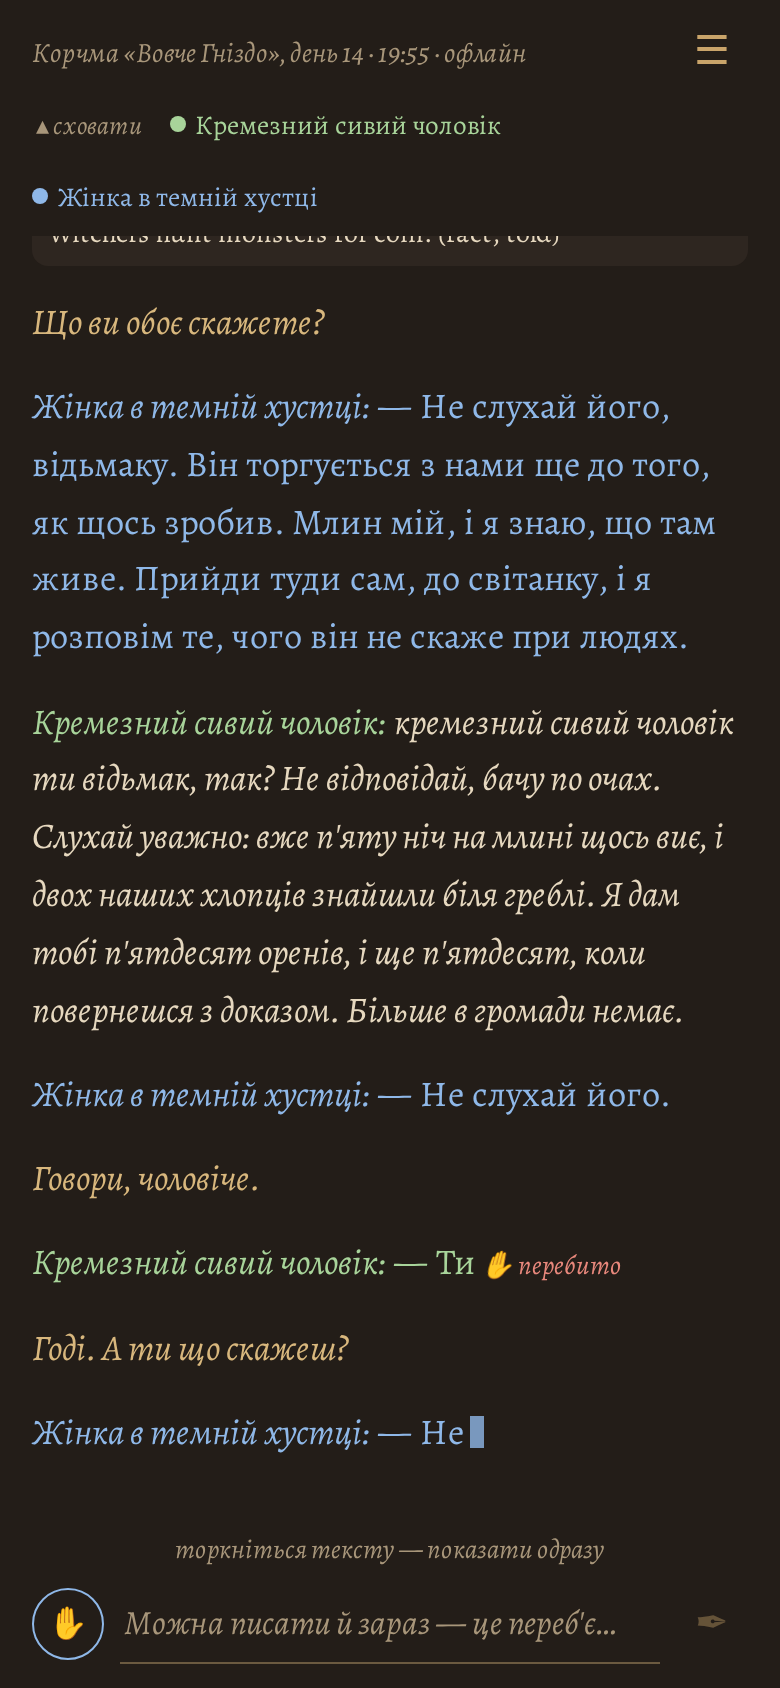
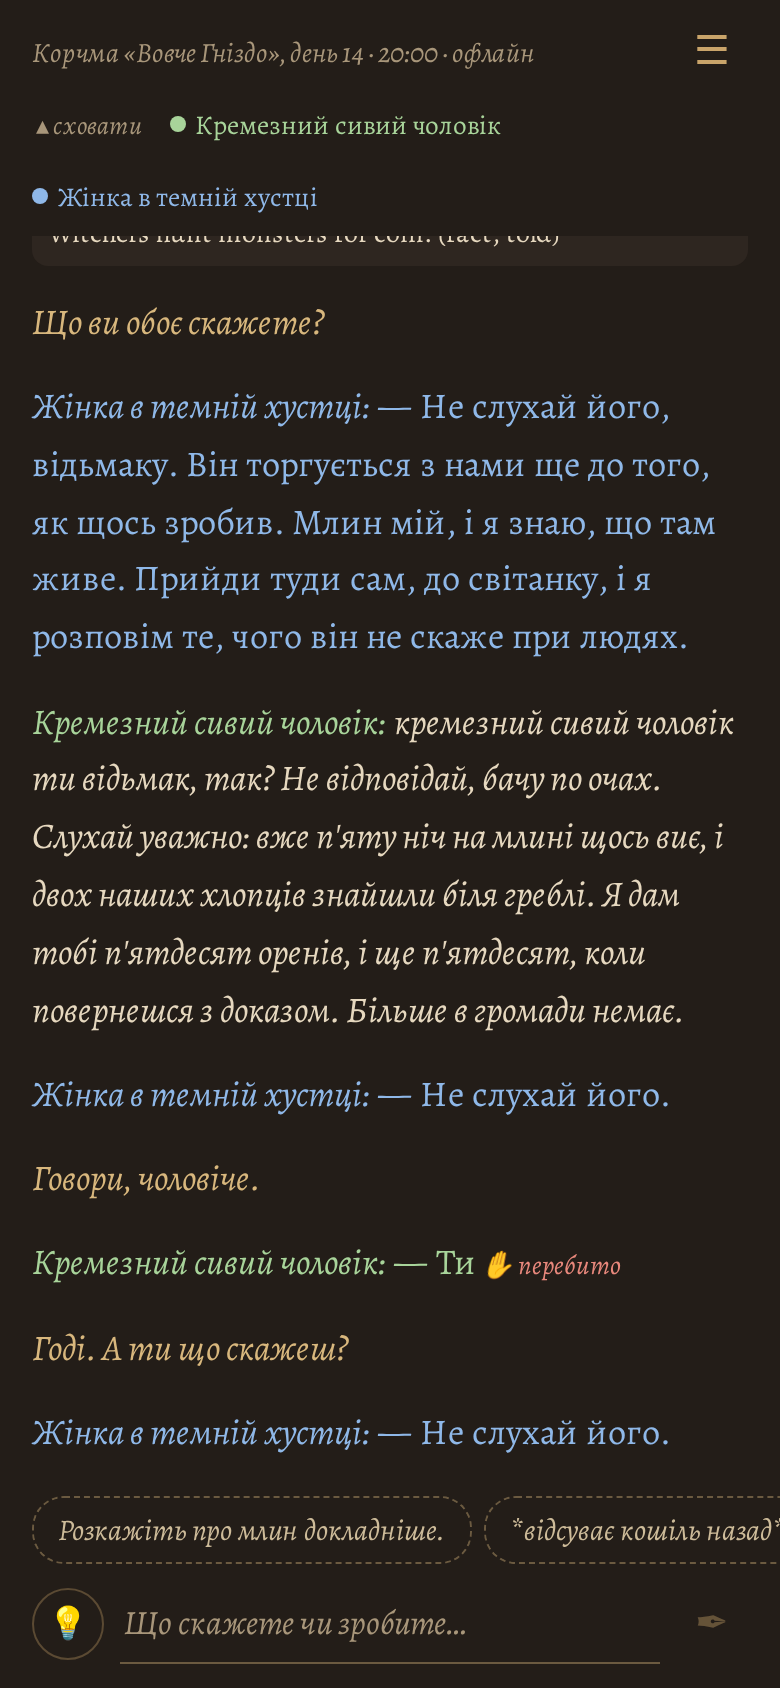
Model error on the last NPC gesture: regenerate it through the gesture step, retract the old event
Claude-Session: https://claude.ai/code/session_01CWLHKUxozeDSLq8FyEpMnW

diff --git a/app/static/app.js b/app/static/app.js
@@ -118,9 +118,10 @@ function sayBlock(tok, label, text, cut, event) {
   if (event != null) p.dataset.event = event;
   return p;
 }
-function actBlock(tok, label, text) {
+function actBlock(tok, label, text, event) {
   const p = el("p", "npc act"); p.dataset.line = "act"; p.tabIndex = 0;
   who(p, tok, label);
+  if (event != null) p.dataset.event = event;
   p.append(whoTag(p), document.createTextNode(" "), el("span", "act-text", text));
   return p;
 }
@@ -154,7 +155,7 @@ function lineInfo(p) {
 function sheetItems(x, offered) {
   const out = [];
   if (x.kind === "say" && x.event) out.push("challenge");
-  if (offered.includes("model_error") && x.lastWorld && x.kind !== "act" && !x.busy) out.push("model_error");
+  if (offered.includes("model_error") && x.lastWorld && (x.kind !== "act" || x.event) && !x.busy) out.push("model_error");
   if (offered.includes("cut") && x.kind === "say" && x.lastWorld && x.lastLine && !x.busy && !x.cut)
     out.push("cut");
   if (x.tok && (x.kind === "say" || x.kind === "act")) out.push("ink");
@@ -506,7 +507,7 @@ function render(state) {
     if (t.kind === "intro") n = narrBlock(t.text, "intro");
     else if (t.kind === "player") { n = meBlock(t.text); lastTurnNodes = []; }
     else if (t.kind === "narr") { if (t.text && t.text.trim()) n = narrBlock(t.text); }
-    else if (t.kind === "npc_act") n = actBlock(t.tok, t.label, t.text);
+    else if (t.kind === "npc_act") n = actBlock(t.tok, t.label, t.text, t.event);
     else n = sayBlock(t.tok, t.label, t.text, t.cut, t.event);
     if (!n) continue;
     add(n, false);
@@ -551,7 +552,7 @@ const handlers = {
     cur = add(sayBlock(e.tok, e.label, "")); turnNpc.push(cur); streaming(cur);
     setBusy(true, "speaking");
   },
-  npc_act(e) { newSpeaker(e.tok); cur = add(actBlock(e.tok, e.label, e.text)); streaming(null); },
+  npc_act(e) { newSpeaker(e.tok); cur = add(actBlock(e.tok, e.label, e.text, e.event)); streaming(null); },
   word(e) {
     if (!cur || cur.dataset.line !== "say") return;
     const p = cur;

diff --git a/app/tests/test_app_corrections.py b/app/tests/test_app_corrections.py
@@ -11,7 +11,7 @@ from app.campaigns import open_campaign
 from app.game import Game
 from app.server import create_app
 from app.stacks import fake_stack
-from harness.director import NEXT_TAG
+from harness.director import NEXT_TAG, SHAPE_TAG
 from harness.models import CORRECTION, NARRATION, UTTERANCE
 
 
@@ -20,12 +20,15 @@ def _no_local_character_file(monkeypatch, tmp_path):
     monkeypatch.setattr(campaigns, "DATA_FILE", tmp_path / "missing.md")
 
 
-def make(floors=("horst", "player"), narration=False):
+def make(floors=("horst", "player"), narration=False, shapes=None):
     stack = fake_stack()
     stack.judge.rules["director_narration"] = narration
+    if shapes:
+        stack.judge.rules[SHAPE_TAG] = list(shapes)
     stack.judge.rules[NEXT_TAG] = list(floors)
     root = tempfile.mkdtemp(prefix="harness-app-corr-")
     g = Game(lambda new: open_campaign(stack, root=root, new=new), pace=0.0, suggestions=False)
+    g.root = root
     g.start_turn("Що кажете?")
     g.wait_idle(20)
     return g, TestClient(create_app(g)), stack
@@ -48,6 +51,36 @@ def test_model_error_on_the_last_npc_line_rewrites_it_and_stores_the_note():
     assert notes and notes[-1].payload["explanation"] == "він грубіянить"
     assert not g.eng.log.is_active(line["event"])
     assert any("він грубіянить" in x for x in g.eng.ctx.corrections("horst"))
+
+
+def test_model_error_on_the_last_gesture_regenerates_it_and_survives_a_reload():
+    g, c, stack = make(floors=("horst", "elza", "player"), shapes=("normal", "gesture"))
+    act = last(g, "npc_act")
+    assert last_kind(g) == "npc_act" and act["event"]
+    players = [t for t in g.transcript if t["kind"] == "player"]
+    r = c.post("/api/model_error", json={"event": act["event"], "explanation": "надто театрально"})
+    assert r.status_code == 200, r.text
+    new = last(g, "npc_act")
+    assert new["event"] != act["event"] and new["text"] and new["tok"] == act["tok"]
+    assert [t for t in g.transcript if t["kind"] == "player"] == players
+    assert not g.eng.log.is_active(act["event"])
+    ev = g.eng.log.get(new["event"])
+    assert ev.payload["gesture"] and ev.payload["by"] == "elza" and ev.payload["regenerated"]
+    assert g.eng.last_world_output().id == new["event"]
+    assert g.eng.log.active([CORRECTION])[-1].payload["explanation"] == "надто театрально"
+    assert any("надто театрально" in x for x in g.eng.ctx.corrections("elza"))
+    assert g.state()["transcript"][-1]["event"] == new["event"]
+    reloaded = campaigns.open_campaign(stack, root=g.root, new=False).transcript()
+    assert [t for t in reloaded if t["kind"] == "npc_act"][-1]["text"] == new["text"]
+
+
+def test_model_error_on_an_older_gesture_is_refused():
+    g, c, _ = make(floors=("horst", "elza", "horst", "player"),
+                   shapes=("normal", "gesture", "normal"))
+    act = last(g, "npc_act")
+    assert last_kind(g) == "npc"
+    r = c.post("/api/model_error", json={"event": act["event"], "explanation": "не так"})
+    assert r.status_code == 400 and g.eng.log.is_active(act["event"])
 
 
 def test_model_error_on_narration_rewrites_it_and_feeds_the_narrator():

diff --git a/harness/pipeline.py b/harness/pipeline.py
@@ -2019,6 +2019,14 @@ class Engine:
             res = Challenge("model_error", npc=npc, event=event_id)
             self._regenerate(ev, res, explanation)
             return res
+        if ev.type == ACTION_EVENT:  # an NPC gesture
+            npc, text = ev.payload["by"], ev.payload["text"]
+            self._event(CORRECTION, [npc], {"npc": npc, "line": text, "explanation": explanation,
+                                            "line_event": event_id, "reason": "model error",
+                                            "gesture": True}, witnesses=[], notability=0.1)
+            res = Challenge("model_error", npc=npc, event=event_id)
+            self._regenerate_gesture(ev, res)
+            return res
         if ev.type != NARRATION:
             raise ValueError("only a line or a narration passage can be a model error")
         text = ev.payload["text"]
@@ -2195,6 +2203,32 @@ class Engine:
             self._note("regenerated_line_not_extracted", event=new.id)
         self.refresh_memory()
         res.regenerated, res.text, res.new_event = True, text, new.id
+
+    def _regenerate_gesture(self, old: Event, res: "Challenge") -> None:
+        """Replace the NPC gesture `old` by a new one made the way the exchange makes a gesture
+        step (same context, gesture shape and name fixing), with the correction in the NPC's
+        context. Failing (or no action coming back) puts the old gesture back."""
+        npc = old.payload["by"]
+        self.log.rollback(old.id, "model error: gesture")
+        try:
+            prep = self._prep_npc(npc)
+            text = self._shaped_line(prep, Shape.GESTURE,
+                                     word_bounds(Shape.GESTURE, self.world_profile))
+            if not text:
+                raise RuntimeError("the gesture could not be written again")
+            act = self._fix_names(beat_as_action(text, self.names.real(npc),
+                                                 [self.names.label(npc)]), "npc_beat")
+        except Exception:
+            self._event(ACTION_EVENT, [npc], {"text": old.payload["text"], "by": npc,
+                                              "gesture": True, "replaces": old.id,
+                                              "restored": True}, notability=0.3)
+            self.refresh_memory()
+            raise
+        new = self._event(ACTION_EVENT, [npc], {"text": act, "by": npc, "gesture": True,
+                                                "replaces": old.id, "regenerated": True},
+                          notability=0.3)
+        self.refresh_memory()
+        res.regenerated, res.text, res.new_event = True, act, new.id
 
     # -- long-run NPCs (task 19) -----------------------------------------------------------
     def add_npc(self, spec: NpcSpec, *, description: str = "", appearance: str = "") -> CharacterProfile:

diff --git a/app/game.py b/app/game.py
@@ -499,7 +499,7 @@ class Game:
             world = [en for en in self.transcript[last_player + 1:]
                      if en["kind"] in ("narr", "npc", "npc_act")]
             tail = world[-1] if world else None
-            if (tail is None or tail["kind"] == "npc_act" or tail.get("event") is None
+            if (tail is None or tail.get("event") is None
                     or (event is not None and tail.get("event") != event)
                     or (event is None and tail["kind"] != "narr")):  # null: the narration
                 raise Refused("Помилку моделі можна позначити лише на останньому, що сказав чи "
@@ -510,6 +510,8 @@ class Game:
             except ValueError as e:
                 raise Refused("Це вже не останнє, що сказав чи описав світ.") from e
             out = asdict(res)
+            if kind == "npc_act":  # the transcript shows the gesture as the player sees it
+                res.text = self.eng.ctx.mask(PLAYER, res.text).strip()
             self._apply_regen(res, event, kind)
             self.debug = {**self.debug, "model_error": out,
                           "notes": self.debug.get("notes", []) + self.eng.devlog[-3:]}
@@ -644,8 +646,9 @@ class Game:
                 act = eng.ctx.mask(PLAYER, str(ev.payload.get("text", ""))).strip()
                 if act:
                     tok = self._note_speaker(who)
-                    entries.append({"kind": "npc_act", "tok": tok, "label": label, "text": act})
-                    self._emit("npc_act", tok=tok, label=label, text=act)
+                    entries.append({"kind": "npc_act", "tok": tok, "label": label, "text": act,
+                                    "event": ev.id})
+                    self._emit("npc_act", tok=tok, label=label, text=act, event=ev.id)
                 cur["who"] = None
 
         def on_narration(narration: str) -> None:

diff --git a/app/tests/test_app_client.py b/app/tests/test_app_client.py
@@ -116,7 +116,9 @@ def test_sheet_items_follow_the_spec_rules():
         ({**base, "lastLine": False}, both, ["challenge", "model_error", "ink"]),
         ({**base, "cut": True}, both, ["challenge", "model_error", "ink"]),
         ({**base, "busy": True, "event": False}, both, ["ink"]),
-        ({**base, "kind": "act", "event": False}, both, ["ink"]),   # a gesture cannot be rewritten
+        ({**base, "kind": "act", "event": False}, both, ["ink"]),   # an old server's gesture: no id
+        ({**base, "kind": "act"}, both, ["model_error", "ink"]),    # the last gesture can be rewritten
+        ({**base, "kind": "act", "lastWorld": False}, both, ["ink"]),
         ({**base, "kind": "narr", "tok": "", "event": False}, both, ["model_error"]),
         ({**base, "kind": "narr", "tok": "", "event": False, "lastWorld": False}, both, []),
         ({**base, "kind": "me", "tok": "", "event": False, "lastWorld": False}, both, []),

diff --git a/app/tests/ui_check.py b/app/tests/ui_check.py
@@ -282,6 +282,9 @@ def main() -> None:
         page.keyboard.press("Escape")
         assert sheet_items(page, hsel, 0) == ["challenge", "ink"], "old line: no cut, no rewrite"
         assert sheet_items(page, f"{ACT}[data-tok='{horst}']", 0) == ["ink"]
+        # the live gesture carries its event id (the last gesture of a story can be rewritten)
+        assert page.locator(f"{ACT}[data-tok='{horst}']").first.get_attribute("data-event"), \
+            "a gesture knows its event"
 
         # ink: picked from the line menu of an old line; every past line of him changes at once
         page.locator(hsel).first.click(button="right")

diff --git a/app/campaigns.py b/app/campaigns.py
@@ -204,7 +204,7 @@ class Campaign:
                 text = (names.mask(PLAYER, str(e.payload.get("text", "")), before=e.id)
                         if names else str(e.payload.get("text", ""))).strip()
                 if text:
-                    out.append({"kind": "npc_act", "tok": self.tok(by), "text": text,
+                    out.append({"kind": "npc_act", "tok": self.tok(by), "text": text, "event": e.id,
                                 "label": self.engine.ctx.label(PLAYER, by, e.id)})
                 continue
             if e.type == ACTION and e.payload.get("actor") != PLAYER:
